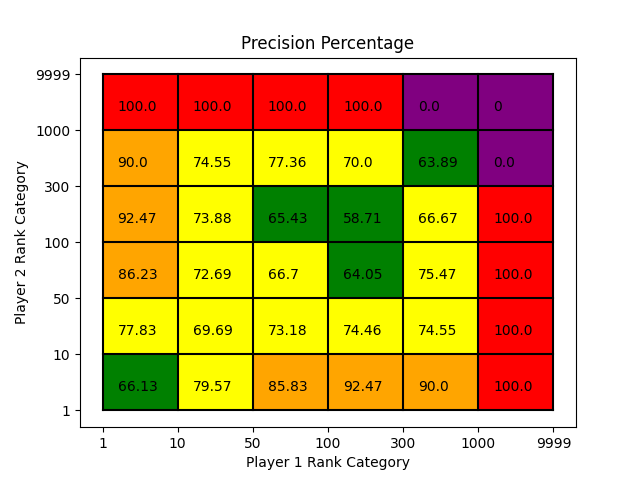
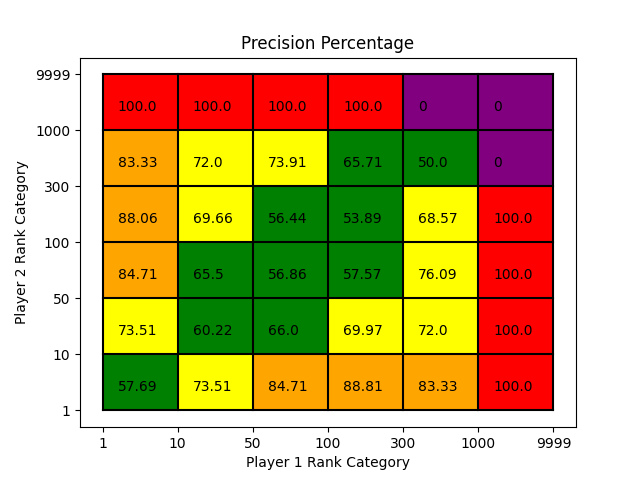
new grid search eval

diff --git a/examples/models/grid_search.py b/examples/models/grid_search.py
@@ -36,7 +36,6 @@ player_features = [
     "Carpet_Victories_Percentage",
     "Hard_Victories_Percentage",
     "Aces_Percentage",
-    "ID",
 ]
 additional_features = ["diff_rank", "v_perc_versus", "nb_match_versus"]
 
@@ -50,7 +49,7 @@ test_score = train_test_evaluation(
     player_features=player_features,
     encoding_params={},
     additional_features=additional_features,
-    save_path="../../results/20212022",
+    save_path="../../results/20212022_",
     save_all_results=True,
 )
 
@@ -75,7 +74,7 @@ test_score = train_test_evaluation(
     player_features=player_features,
     encoding_params={},
     additional_features=additional_features,
-    save_path="../../results/20212022",
+    save_path="../../results/20212022_",
     save_all_results=True,
 )
 
@@ -98,7 +97,7 @@ test_score = train_test_evaluation(
     player_features=player_features,
     encoding_params={},
     additional_features=additional_features,
-    save_path="../../results/20212022",
+    save_path="../../results/20212022_",
     save_all_results=True,
 )
 
@@ -120,7 +119,7 @@ test_score = train_test_evaluation(
     player_features=player_features,
     encoding_params={},
     additional_features=additional_features,
-    save_path="../../results/20212022",
+    save_path="../../results/20212022_",
     save_all_results=True,
 )
 
@@ -139,7 +138,7 @@ for mx_depth in [1, 3, 5]:
             player_features=player_features,
             encoding_params={},
             additional_features=additional_features,
-            save_path="../../results/20212022",
+            save_path="../../results/20212022_",
             save_all_results=True,
         )
         print("~~ Current Score ~~", test_score)
@@ -159,7 +158,7 @@ for mx_depth in [1, 3, 5]:
             player_features=player_features,
             encoding_params={},
             additional_features=additional_features,
-            save_path="../../results/20212022",
+            save_path="../../results/20212022_",
             save_all_results=True,
         )
         print("~~ Current Score ~~", test_score)
@@ -187,7 +186,7 @@ test_score = train_test_evaluation(
     player_features=player_features,
     encoding_params={},
     additional_features=additional_features,
-    save_path="../../results/20212022",
+    save_path="../../results/20212022_",
     save_all_results=True,
 )
 
@@ -219,7 +218,7 @@ test_score = train_test_evaluation(
     player_features=player_features,
     encoding_params={},
     additional_features=additional_features,
-    save_path="../../results/20212022",
+    save_path="../../results/20212022_",
     save_all_results=True,
 )
 
@@ -251,6 +250,6 @@ test_score = train_test_evaluation(
     player_features=player_features,
     encoding_params={},
     additional_features=additional_features,
-    save_path="../../results/20212022",
+    save_path="../../results/20212022_",
     save_all_results=True,
 )

diff --git a/examples/results_reading/best_model.py b/examples/results_reading/best_model.py
@@ -5,14 +5,14 @@ from matplotlib.patches import Rectangle
 import numpy as np
 import pandas as pd
 
-df_results = pd.read_csv("../../results/20212022/results.csv", sep=";")
+df_results = pd.read_csv("../../results/20212022_/results.csv", sep=";")
 
 best_row = df_results.iloc[df_results.precision.argmax()]
 print(best_row)
 
 eval_id = best_row["eval_ID"]
 best_results = pd.read_csv(
-    os.path.join("../../results/20212022", f"{eval_id}.csv"), sep=";"
+    os.path.join("../../results/20212022_", f"{eval_id}.csv"), sep=";"
 )
 
 fig, ax = plt.subplots()
@@ -92,7 +92,7 @@ plt.show()
 
 best_ranked_player_wins_results = pd.read_csv(
     os.path.join(
-        "../../results/20212022",
+        "../../results/20212022_",
         f"{df_results.loc[df_results.model_class=='BestRankedPlayerWins'].eval_ID.values[0]}.csv",
     ),
     sep=";",

diff --git a/examples/results_reading/models_comparison.py b/examples/results_reading/models_comparison.py
@@ -2,7 +2,7 @@ import matplotlib.pyplot as plt
 from matplotlib.patches import Rectangle
 import pandas as pd
 
-df_results = pd.read_csv("../../results/20212022/results.csv", sep=";")
+df_results = pd.read_csv("../../results/20212022_/results.csv", sep=";")
 
 print(df_results.head())
 models_color = {}
